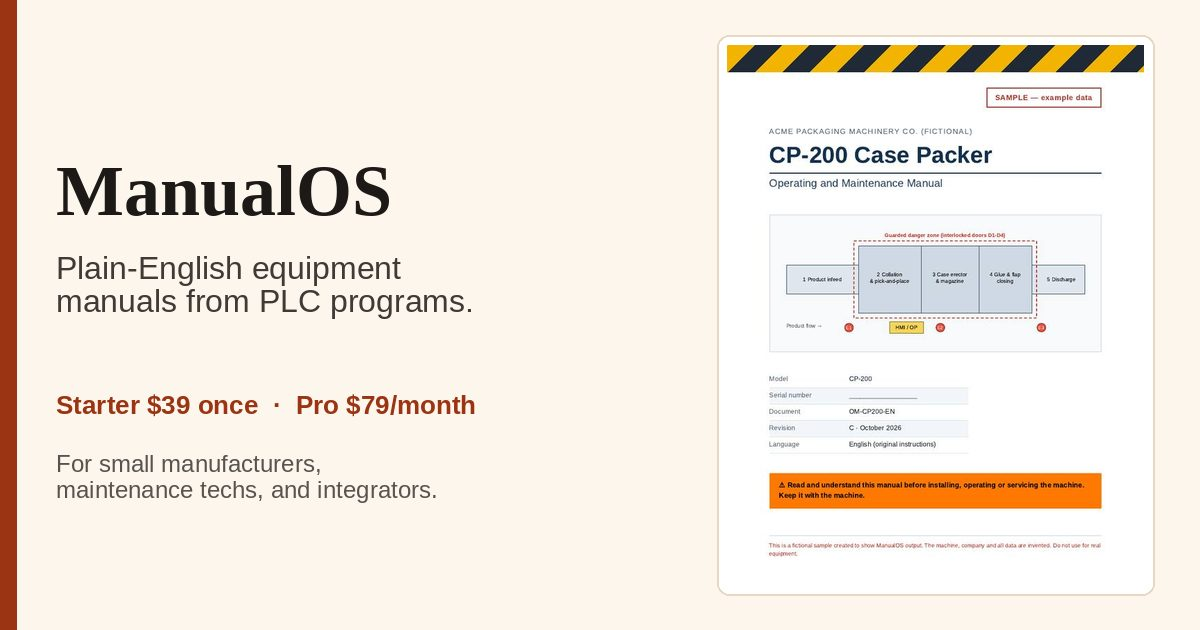
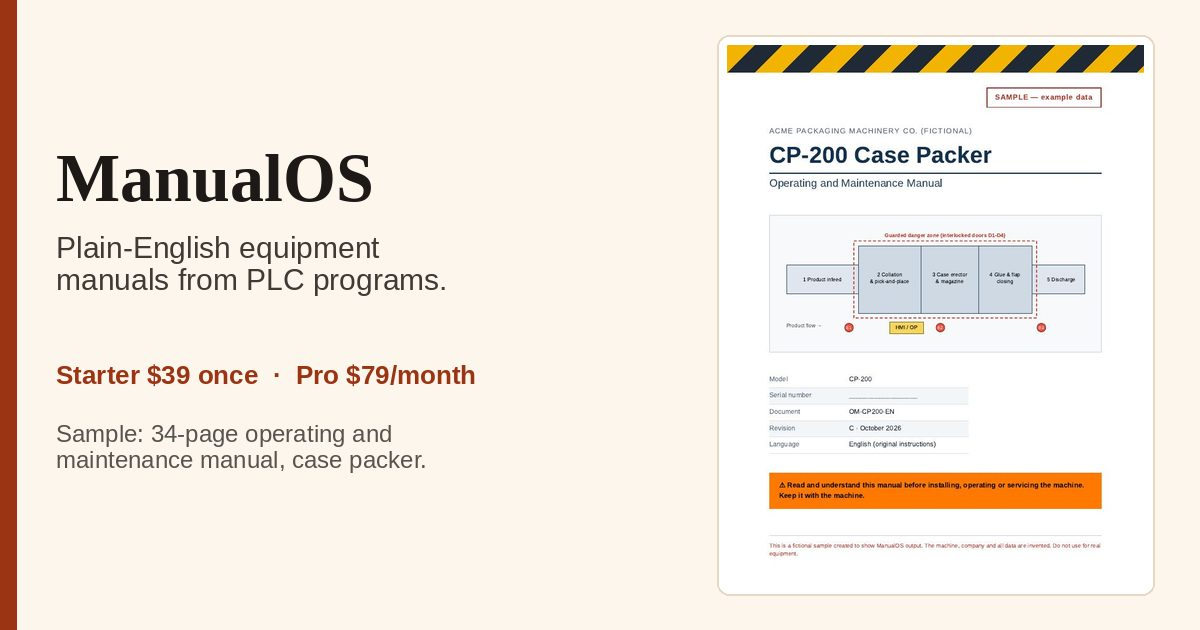
Show the 34-page CP-200 case packer manual in the sample section.
Replace the palletizer page previews with the cover, contents, residual risk, theory of operation, sequence, and troubleshooting pages from that PDF.

diff --git a/index.html b/index.html
@@ -18,12 +18,12 @@
 <meta property="og:image:type" content="image/jpeg">
 <meta property="og:image:width" content="1200">
 <meta property="og:image:height" content="630">
-<meta property="og:image:alt" content="ManualOS: plain-English equipment manuals from PLC programs. Starter is $39 once. Pro is $79 per month. A sample palletizer manual page sits beside the title.">
+<meta property="og:image:alt" content="ManualOS: plain-English equipment manuals from PLC programs. Starter is $39 once. Pro is $79 per month. The cover of a 34-page sample case packer manual sits beside the title.">
 <meta name="twitter:card" content="summary_large_image">
 <meta name="twitter:title" content="ManualOS — Plain-English manuals from PLC programs">
 <meta name="twitter:description" content="Turn PLC programs into plain-English equipment manuals for small manufacturers, techs, and integrators. Starter is $39 once for 3 manuals. Pro is $79/month.">
 <meta name="twitter:image" content="https://manualos.com/assets/og-image.jpg">
-<meta name="twitter:image:alt" content="ManualOS: plain-English equipment manuals from PLC programs. Starter is $39 once. Pro is $79 per month.">
+<meta name="twitter:image:alt" content="ManualOS: plain-English equipment manuals from PLC programs. Starter is $39 once. Pro is $79 per month. The cover of a 34-page sample case packer manual sits beside the title.">
 <link rel="icon" href="/favicon.ico" sizes="32x32">
 <meta name="theme-color" content="#fdf6ed">
 <link rel="preconnect" href="https://manualforge-backend-production.up.railway.app" crossorigin>
@@ -82,6 +82,8 @@ figure{margin:0;background:var(--card);border:1px solid var(--line);border-radiu
 figure img{display:block;width:100%;background:#fff}
 figcaption{padding:.75rem .9rem 1rem;font-size:.95rem;color:var(--text)}
 .sample-actions{display:flex;flex-wrap:wrap;gap:.75rem;align-items:center;margin:1rem 0 1.2rem}
+.sample-sections{margin:.6rem 0 0;padding-left:1.2rem;max-width:40rem}
+.sample-sections li{margin:.25rem 0}
 .features,.who-list,.pricing-grid{display:grid;gap:1rem;padding-top:.8rem}
 .feature,.who-list li,.price-card{background:var(--card);border:1px solid var(--line);border-radius:1rem;padding:1.15rem}
 .who-list{list-style:none;margin:0;padding:0}
@@ -195,7 +197,7 @@ figcaption{padding:.75rem .9rem 1rem;font-size:.95rem;color:var(--text)}
           "name": "What is in a manual?",
           "acceptedAnswer": {
             "@type": "Answer",
-            "text": "You get a PDF with a cover, a short description of the machine, the sequence of operations, subsystem sections, and routine-by-routine explanations in plain English. Where a sentence is tied back to the program, the manual shows a code reference note. The sample on this page is a functional description of a conveyor palletizer cell."
+            "text": "You get a PDF operating and maintenance manual. The 34-page sample on this page is for a case packer. It includes safety, machine description and theory of operation, transport, installation, operation, maintenance and troubleshooting, drawings, and a parts list. Where a sentence is tied back to the PLC program, the manual shows a code reference note."
           }
         },
         {
@@ -298,61 +300,73 @@ OTE  Conv_Run</code></pre>
       </li>
     </ol>
   </section>
+  <!--
+    SAMPLE BUNDLE. To swap in a longer sample, replace the files in /assets/sample/ and edit only this section.
+    PDF: /assets/sample/manual.pdf
+    Previews, in order: preview-01 through preview-06, each as .webp and .jpg at the same pixel size.
+    Also update the page count, the section list, the figcaptions, and the alt text so they match the new PDF.
+    Current file: Acme CP-200 Case Packer, Operating and Maintenance Manual (Sample), 34 pages.
+    preview-01 cover. preview-02 contents, page i. preview-03 residual risk, page 2.
+    preview-04 theory of operation, page 6. preview-05 sequence of operation, page 11.
+    preview-06 troubleshooting, page 16.
+  -->
   <section class="section" id="sample" aria-labelledby="sample-title">
     <h2 id="sample-title">Sample manual</h2>
-    <p class="section-intro">A functional description of a conveyor palletizer cell, generated from a PLC program. The pages below are the real sample, not a mockup.</p>
+    <p class="section-intro">A 34-page sample operating and maintenance manual for a case packer, the Acme CP-200. The download is that full PDF. The six pages below are taken from it.</p>
+    <ul class="sample-sections">
+      <li>Safety, including residual risk</li>
+      <li>Machine description and theory of operation</li>
+      <li>Transport, receiving, and storage</li>
+      <li>Installation</li>
+      <li>Operation, including the sequence of operation and control logic</li>
+      <li>Maintenance and troubleshooting</li>
+      <li>Drawings, spare parts, and an appendix</li>
+    </ul>
     <div class="sample-actions">
-      <a class="btn btn-primary" href="/assets/sample-manual-CP200.pdf" download="sample-manual-CP200.pdf">Download the sample PDF (1.1 MB)</a>
+      <a class="btn btn-primary" href="/assets/sample/manual.pdf" download="Acme-CP-200-sample-manual.pdf">Download the 34-page sample PDF (1.1 MB)</a>
     </div>
     <div class="gallery">
       <figure>
         <picture>
-          <source srcset="/assets/sample-cover.webp" type="image/webp">
-          <img src="/assets/sample-cover.jpg" width="600" height="776" alt="Sample manual cover page titled Functional Description for a conveyor palletizer cell, showing a code reference scale of 82 percent." loading="lazy" decoding="async">
+          <source srcset="/assets/sample/preview-01.webp" type="image/webp">
+          <img src="/assets/sample/preview-01.jpg" width="680" height="880" alt="Cover of the sample Acme CP-200 Case Packer operating and maintenance manual. The subtitle says Sample, and the code reference scale is 84 percent." loading="lazy" decoding="async">
         </picture>
-        <figcaption>Cover. Functional description, with a code reference scale of 82%.</figcaption>
+        <figcaption>Cover. Operating and maintenance manual, code reference scale 84%.</figcaption>
       </figure>
       <figure>
         <picture>
-          <source srcset="/assets/sample-sequence.webp" type="image/webp">
-          <img src="/assets/sample-sequence.jpg" width="600" height="776" alt="Sample manual page 2, sequence of operations: pallet check, pusher extend, stacker advance, and discharge conveyor." loading="lazy" decoding="async">
+          <source srcset="/assets/sample/preview-02.webp" type="image/webp">
+          <img src="/assets/sample/preview-02.jpg" width="680" height="880" alt="Table of contents, page i, listing safety, machine description, theory of operation, transport, installation, and operation for the Acme CP-200 case packer." loading="lazy" decoding="async">
         </picture>
-        <figcaption>Page 2. Sequence from pallet check through pusher, stacker, and discharge.</figcaption>
+        <figcaption>Page i. Contents, from safety through operation.</figcaption>
       </figure>
       <figure>
         <picture>
-          <source srcset="/assets/sample-subsystems.webp" type="image/webp">
-          <img src="/assets/sample-subsystems.jpg" width="600" height="776" alt="Sample manual page 5, subsystem overview of the infeed conveyor, pusher, stacker, and discharge conveyor." loading="lazy" decoding="async">
+          <source srcset="/assets/sample/preview-03.webp" type="image/webp">
+          <img src="/assets/sample/preview-03.jpg" width="680" height="880" alt="Page 2, residual risk assessment. The table lists a case-erector jam, a flap-folder pinch point, an infeed photoeye fault, and a damaged guard, with severity and the safeguard for each." loading="lazy" decoding="async">
         </picture>
-        <figcaption>Page 5. Subsystems: infeed, pusher, stacker, and discharge.</figcaption>
+        <figcaption>Page 2. Residual risk: jam, pinch point, photoeye fault, and a damaged guard.</figcaption>
       </figure>
       <figure>
         <picture>
-          <source srcset="/assets/sample-control-logic.webp" type="image/webp">
-          <img src="/assets/sample-control-logic.jpg" width="600" height="776" alt="Sample manual page 6, control logic for one palletizer cycle, including a 10 second discharge fault timer." loading="lazy" decoding="async">
+          <source srcset="/assets/sample/preview-04.webp" type="image/webp">
+          <img src="/assets/sample/preview-04.jpg" width="680" height="880" alt="Page 6, theory of operation for the case erector, flap folder, infeed, and discharge. Each subsystem has a plain-English description and the main PLC tag that runs it." loading="lazy" decoding="async">
         </picture>
-        <figcaption>Page 6. Control logic for one cycle, including a 10 second discharge fault.</figcaption>
+        <figcaption>Page 6. How the case erector, flap folder, infeed, and discharge work.</figcaption>
       </figure>
       <figure>
         <picture>
-          <source srcset="/assets/sample-rung-pallet.webp" type="image/webp">
-          <img src="/assets/sample-rung-pallet.jpg" width="600" height="776" alt="Sample manual page 18, rung 5, a pallet-present check with a 2 second delay before the pusher extends." loading="lazy" decoding="async">
+          <source srcset="/assets/sample/preview-05.webp" type="image/webp">
+          <img src="/assets/sample/preview-05.jpg" width="680" height="880" alt="Page 11, sequence of operation: the case erector feeds a case, the flap folder closes the flaps, the infeed loads the product, and the discharge sends the case out. Each step names its PLC tag." loading="lazy" decoding="async">
         </picture>
-        <figcaption>Page 18, rung 5. Pallet-present check, then a 2 second delay before the pusher extends.</figcaption>
+        <figcaption>Page 11. Sequence of operation, one step per subsystem, with the PLC tag.</figcaption>
       </figure>
       <figure>
         <picture>
-          <source srcset="/assets/sample-rung-full.webp" type="image/webp">
-          <img src="/assets/sample-rung-full.jpg" width="600" height="776" alt="Sample manual page 24, rung 11, a pallet-full check with a 3 second delay before the stacker advances." loading="lazy" decoding="async">
+          <source srcset="/assets/sample/preview-06.webp" type="image/webp">
+          <img src="/assets/sample/preview-06.jpg" width="680" height="880" alt="Page 16, troubleshooting. The table lists a case-erector jam, a flap-folder fault, an infeed jam, and a discharge jam, with the likely cause, the PLC check, and what to do." loading="lazy" decoding="async">
         </picture>
-        <figcaption>Page 24, rung 11. Pallet-full check, then a 3 second delay before the stacker advances.</figcaption>
-      </figure>
-      <figure>
-        <picture>
-          <source srcset="/assets/sample-xref.webp" type="image/webp">
-          <img src="/assets/sample-xref.jpg" width="600" height="776" alt="Sample manual page 35, cross-reference of PLC tag names to the manual sections that describe them." loading="lazy" decoding="async">
-        </picture>
-        <figcaption>Page 35. Cross-reference from tag names to the sections that describe them.</figcaption>
+        <figcaption>Page 16. Troubleshooting: likely cause, the PLC check, and what to do.</figcaption>
       </figure>
     </div>
   </section>
@@ -365,11 +379,11 @@ OTE  Conv_Run</code></pre>
       </article>
       <article class="feature">
         <h3>Tied to the program</h3>
-        <p>Sections can include a code reference note when a sentence comes from the file. The sample cover shows 82%.</p>
+        <p>Sections can include a code reference note when a sentence comes from the file. The sample cover shows 84%.</p>
       </article>
       <article class="feature">
         <h3>A PDF you can hand over</h3>
-        <p>Cover, sequence, subsystems, and routine-by-routine pages, in one file.</p>
+        <p>An operating and maintenance PDF. The sample runs 34 pages, from safety and theory of operation through the sequence, maintenance, and troubleshooting.</p>
       </article>
     </div>
   </section>
@@ -457,7 +471,7 @@ OTE  Conv_Run</code></pre>
     </div>
     <div class="faq-item">
       <h3>What is in a manual?</h3>
-      <p>You get a PDF with a cover, a short description of the machine, the sequence of operations, subsystem sections, and routine-by-routine explanations in plain English. Where a sentence is tied back to the program, the manual shows a code reference note. The sample on this page is a functional description of a conveyor palletizer cell.</p>
+      <p>You get a PDF operating and maintenance manual. The 34-page sample on this page is for a case packer. It includes safety, machine description and theory of operation, transport, installation, operation, maintenance and troubleshooting, drawings, and a parts list. Where a sentence is tied back to the PLC program, the manual shows a code reference note.</p>
     </div>
     <div class="faq-item">
       <h3>What counts as one manual?</h3>
